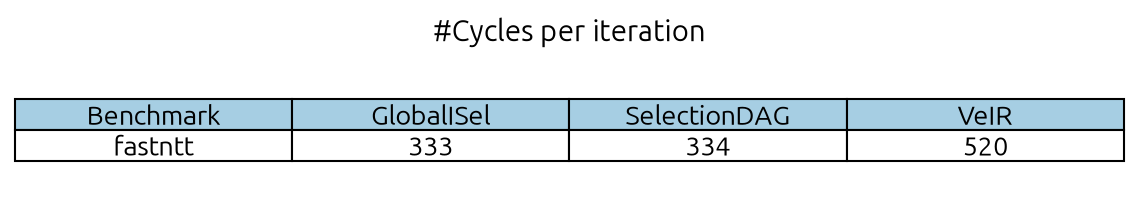
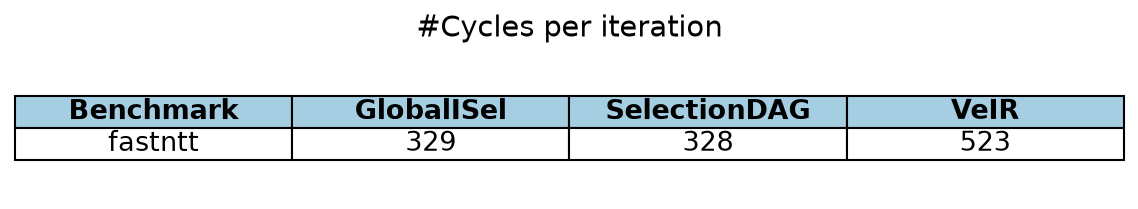
updates

Changed region(s): [[0.0, 0.4306, 1.0, 0.7751], [0.3691, 0.0574, 0.6459, 0.2297]]

diff --git a/utils/generate.py b/utils/generate.py
@@ -3,6 +3,7 @@ import os
 import shutil
 import subprocess
 import re
+import tempfile
 import concurrent.futures
 
 
@@ -228,7 +229,7 @@ def LLC_selectiondag(input_file, output_file, log_file, pass_dict, root_dir, tim
     """
     Compile LLVMIR to RISCV assembly with llc.
     """
-    cmd_base = "llc -march=riscv64 -mcpu=generic-rv64 -mattr=+m,+b -filetype=asm "
+    cmd_base = "llc -march=riscv64 -mcpu=generic-rv64 -mattr=+m,+zba,+zbb,+zbs,+zbc,+zbkb,+zicond -filetype=asm "
     cmd = cmd_base + input_file + " -o " + output_file
     ret_code = run_command(cmd, log_file, timeout, root_dir)
     pass_dict[output_file] = ret_code
@@ -238,7 +239,7 @@ def LLC_globalisel(input_file, output_file, log_file, pass_dict, root_dir, timeo
     """
     Compile LLVMIR to RISCV assembly with llc using the GlobalISel framework.
     """
-    cmd_base = "llc -march=riscv64 -mcpu=generic-rv64 --global-isel -mattr=+m,+b -filetype=asm "
+    cmd_base = "llc -march=riscv64 -mcpu=generic-rv64 --global-isel -mattr=+m,+zba,+zbb,+zbs,+zbc,+zbkb,+zicond -filetype=asm "
     cmd = cmd_base + input_file + " -o " + output_file
     ret_code = run_command(cmd, log_file, timeout, root_dir)
     pass_dict[output_file] = ret_code
@@ -377,12 +378,33 @@ def veir2mir_step(
 
 
 def LLC_mir_regalloc(input_file, output_file, log_file, pass_dict, root_dir, timeout):
+    # Stage 1 runs exactly our register-allocation pass pipeline. Because
+    # -run-pass forces llc to emit MIR (it ignores -filetype=asm), stage 2 takes
+    # that post-regalloc MIR and continues the standard backend from where the
+    # pipeline stopped (after postrapseudos) to emit assembly for llvm-mca. The
+    # intermediate MIR goes to a temp file so it does not get picked up as a
+    # benchmark by the folder-globbing MCA step.
+    #
+    # No LLVM instruction scheduler runs on the VEIR side: stage 1's -run-pass
+    # list contains no pre-RA scheduler, and stage 2 passes -disable-post-ra to
+    # drop the post-RA scheduler while still keeping block placement (so branch
+    # fallthrough is preserved and code size is not inflated by -O0).
+    mattr = "+m,+zba,+zbb,+zbs,+zbc,+zbkb,+zicond"
+    fd, regalloc_mir = tempfile.mkstemp(suffix=".mir")
+    os.close(fd)
     cmd = (
-        "llc -mtriple=riscv64 -x mir -run-pass=phi-node-elimination,registercoalescer,greedy,virtregrewriter,prologepilog,postrapseudos -mattr=+m,+zba,+zbb,+zbs,+zbc,+zbkb,+zicond"
-        f" --start-before=phi-node-elimination -filetype=asm"
-        f" -o {output_file} {input_file}"
+        f"llc -mtriple=riscv64 -mcpu=generic-rv64 -x mir -mattr={mattr}"
+        " -run-pass=phi-node-elimination,register-coalescer,greedy,virtregrewriter,prologepilog,postrapseudos"
+        f" -o {regalloc_mir} {input_file}"
+        f" && llc -mtriple=riscv64 -mcpu=generic-rv64 -x mir -mattr={mattr}"
+        f" --start-after=postrapseudos -disable-post-ra -filetype=asm"
+        f" -o {output_file} {regalloc_mir}"
     )
-    ret_code = run_command(cmd, log_file, timeout, root_dir)
+    try:
+        ret_code = run_command(cmd, log_file, timeout, root_dir)
+    finally:
+        if os.path.exists(regalloc_mir):
+            os.remove(regalloc_mir)
     pass_dict[output_file] = ret_code
 
 
